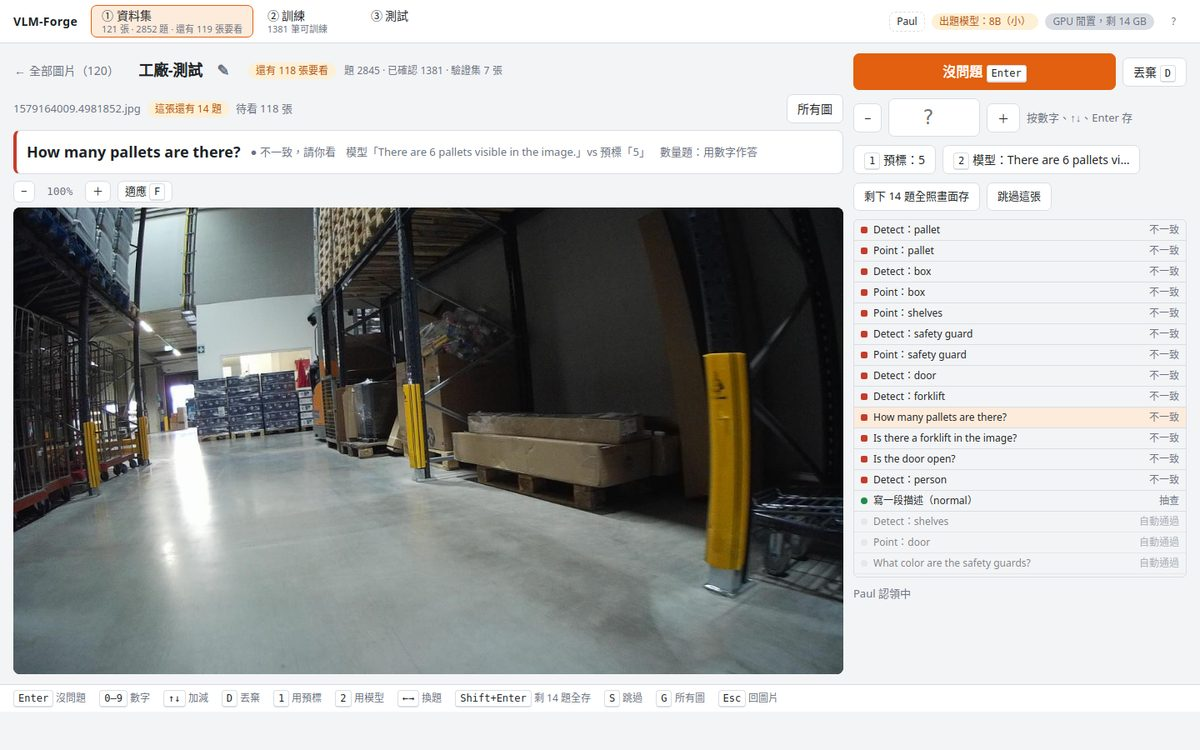
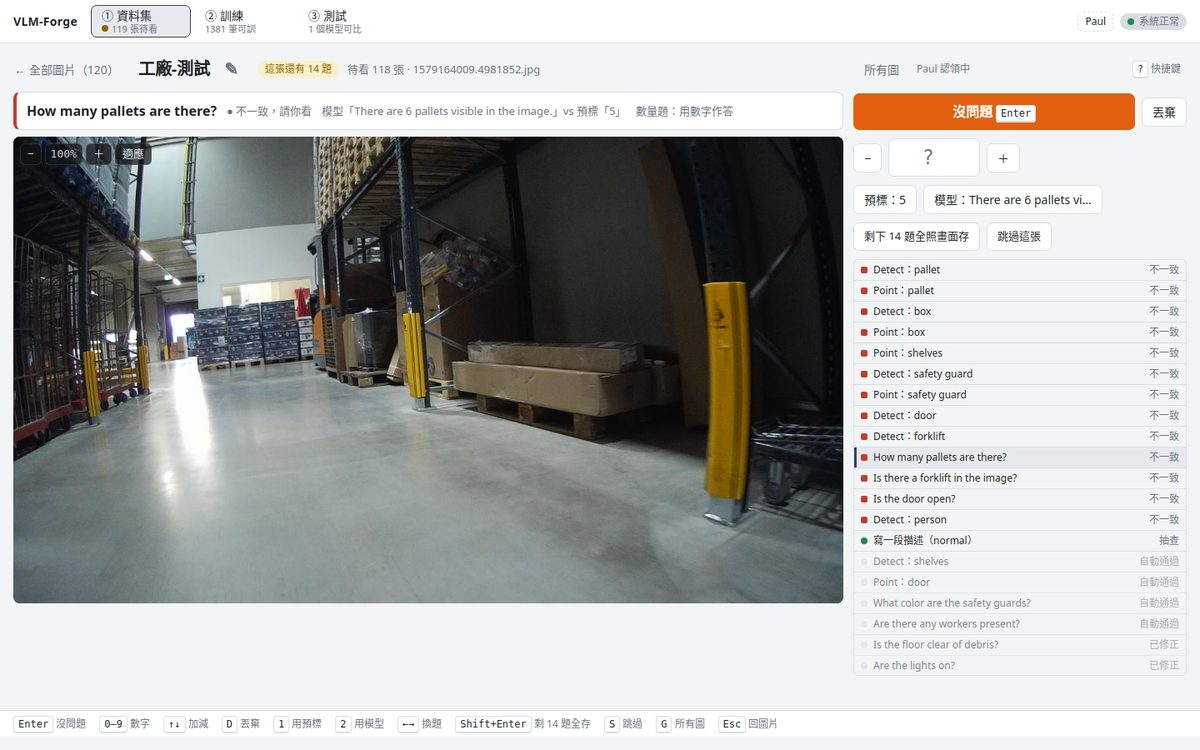
release: v0.3.0 — layout pass
Version 0.3.0 (pyproject, __init__, package.json, uv.lock), CHANGELOG entry,
README with the new design language and eleven re-captured screenshots
(dataset list rows, taller review image, target-first scores), GOALS §10.

diff --git a/src/vlmforge/__init__.py b/src/vlmforge/__init__.py
@@ -4,4 +4,4 @@ Decisions live in GOALS.md. Names that leave this repo (adapters, manifests) use
 ``syncvlm-*``; see GOALS §2.
 """
 
-__version__ = "0.2.0"
+__version__ = "0.3.0"

diff --git a/CHANGELOG.md b/CHANGELOG.md
@@ -2,6 +2,26 @@
 
 All notable changes to VLM-Forge. Versions follow [SemVer](https://semver.org/); dates are when the version reached `main`.
 
+## [0.3.0] — 2026-10-23
+
+A layout pass: one visual language, more room for the image, fewer buttons.
+
+### Changed
+- **Colour roles.** Orange means only the action to take and your answer on the canvas. Current / selected states are neutral, warnings amber, the focus ring blue.
+- **Type and spacing scales** as tokens (20 / 16 / 14 / 13 / 12 px; 4 / 8 / 12 / 16 / 24 px), used everywhere.
+- **Top bar.** One short state per step (「119 張待看」「1381 筆可訓」「1 個模型可比」) and a single system chip — GPU, weights, teacher model, last error — whose popover closes on an outside click or `Esc`.
+- **Review gets a taller image** (≈ 470 → 560 px at 1440 × 900): the file name and 「這張還有 N 題」 moved into the title row, the canvas controls float over the image, the per-question instructions moved into 「? 快捷鍵」.
+- **Every action column** starts with a tool row level with the title row (「? 快捷鍵」 on the right, page tools such as 「所有圖」 on the left), fills the window, and pins its footer (建立 / 刪除) to the bottom.
+- **Dataset list** as rows with a thumbnail strip, review progress and the numbers (the API returns `thumbs`).
+- **Scores.** The target suite (factory CCTV) is a full-width card; validation splits and reference suites sit below; one 「看差異」 per model column.
+- **Widths.** A 340 px action column at 1101–1366 px; one column with the primary action pinned to the bottom of the window at ≤ 1100 px.
+
+### Added
+- Loading skeletons for the dataset list, the image grid, the train cards and the scores.
+
+### Removed
+- Redundant buttons: the canvas 「移動」 and 「刪除選取」 (Space / middle / right drag pans, `Delete` deletes), the 「去訓練」 link on the dataset page (the step bar has it), duplicate 「看差異」 links, and the train page's second orange button. Key labels appear only on the primary button; the key bar lists the rest.
+
 ## [0.2.0] — 2026-10-23
 
 Review is the bottleneck, so this release is about looking at fewer questions, faster.
@@ -30,5 +50,6 @@ Review is the bottleneck, so this release is about looking at fewer questions, f
 
 First version that runs data → review → train → test entirely in the UI: datasets with an AI-teacher labelling flywheel (Qwen3-VL-32B, 8B fallback), one-question-at-a-time review, LoRA training on Moondream 3.1's text MLPs (Photon-compatible), held-out scoring and gate, item-by-item diff, playground, Orin bundle with a local adapter loader, resumable labelling batches, motion and robust image loading.
 
+[0.3.0]: https://github.com/PSheon/VLM-Forge/releases/tag/v0.3.0
 [0.2.0]: https://github.com/PSheon/VLM-Forge/releases/tag/v0.2.0
 [0.1.0]: https://github.com/PSheon/VLM-Forge/releases/tag/v0.1.0

diff --git a/GOALS.md b/GOALS.md
@@ -71,6 +71,7 @@ Data Core 匯出包、GCS、CI、`stage` 分支與 gate 儀式、PRO 6000 kestre
 - **2026-10-23 晚：①→③ 全程在 UI 跑通**——工廠-測試 120 張 → 2845 題（8B 出題）→ 檢查 → 訓練 ft-1023-1911 → 分數／看差異／試一張／Orin 包。2 張圖的 run 只證明流程，分數退步是預期。
 - 已有：模型移植與 base 分數；自動出題（兩階段 teacher、批次、8B 備案）；一次一題的檢查頁；訓練管線（訓→評→gate）；③ 分數卡／看差異／試一張／Orin 包（附本機 adapter loader）。
 - 標註批次的進度只在記憶體：server 重啟或取消會中斷，但出好的題都在；資料集頁會標「中斷」並給「接著跑」（只補沒出題的圖、沒作答的題、沒比對的題）。**跑標註時不要重啟 server。**
+- **v0.3.0（2026-10-23 夜）**：layout 整理——橘色只代表主動作與畫布上的答案、字級／間距 token、頂列每步一個狀態＋單一系統 pill、檢查頁圖片變高（控制項浮在圖上）、資料集清單改列表、分數頁目標考卷置頂、右欄工具列與底部貼底、骨架載入、筆電／窄螢幕版面、拿掉多餘按鈕。
 - **v0.2.0（2026-10-23 夜）**：每題分流（要看 1469／2813 題）、是非／數量一鍵答、框題自動縮放、預標覆蓋標綠、detect→point 同步、底部快捷鍵列；全站統一版面（左內容、右動作欄、主按鈕同位置、無分頁列、Esc 返回）；訓練頁改成「選資料集 → 設定 → 紀錄」。每次版本更新同步 README 截圖、CHANGELOG、GitHub 描述／topics 與 release。
 - 下一步：Paul 看完 30–50 張再訓一次，看 CCTV query／detect 是否守住；query 答案被截斷（「There is 」）待查；Orin 實機驗證 `local_adapter.py`。
 - 待 Paul：NVR RTSP 連線資訊（工廠 CCTV 新畫面）。
